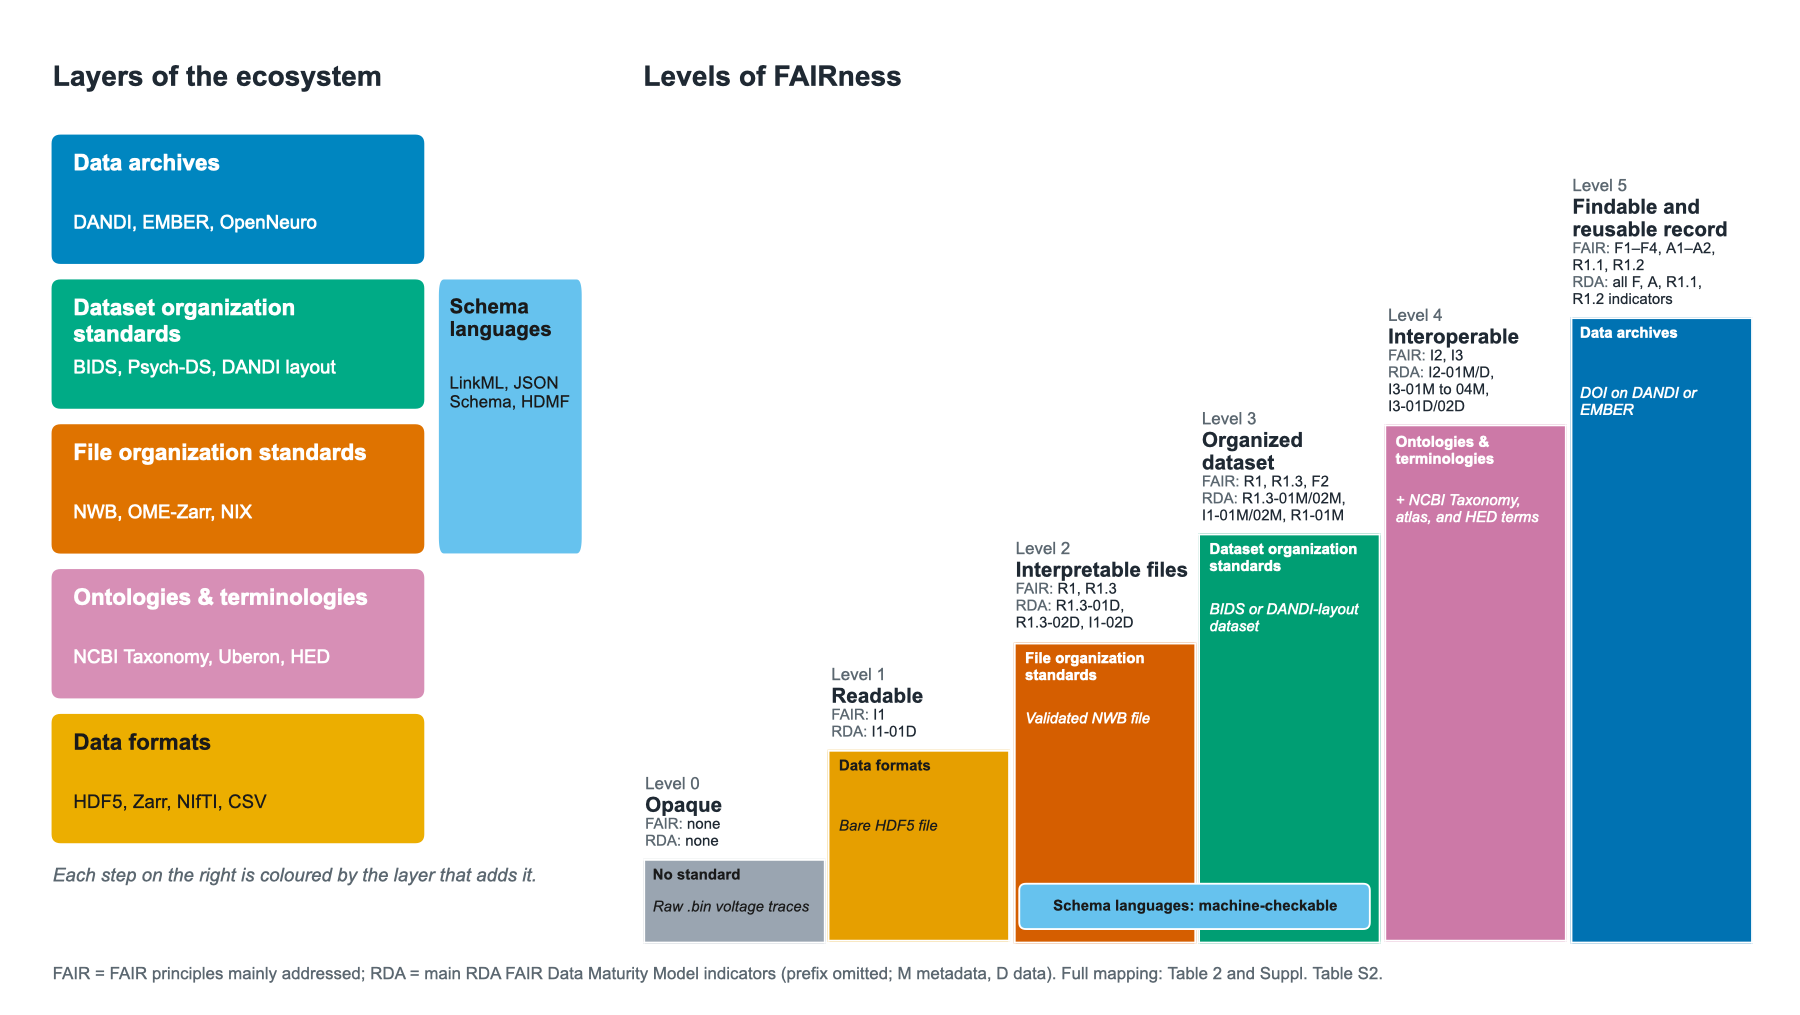
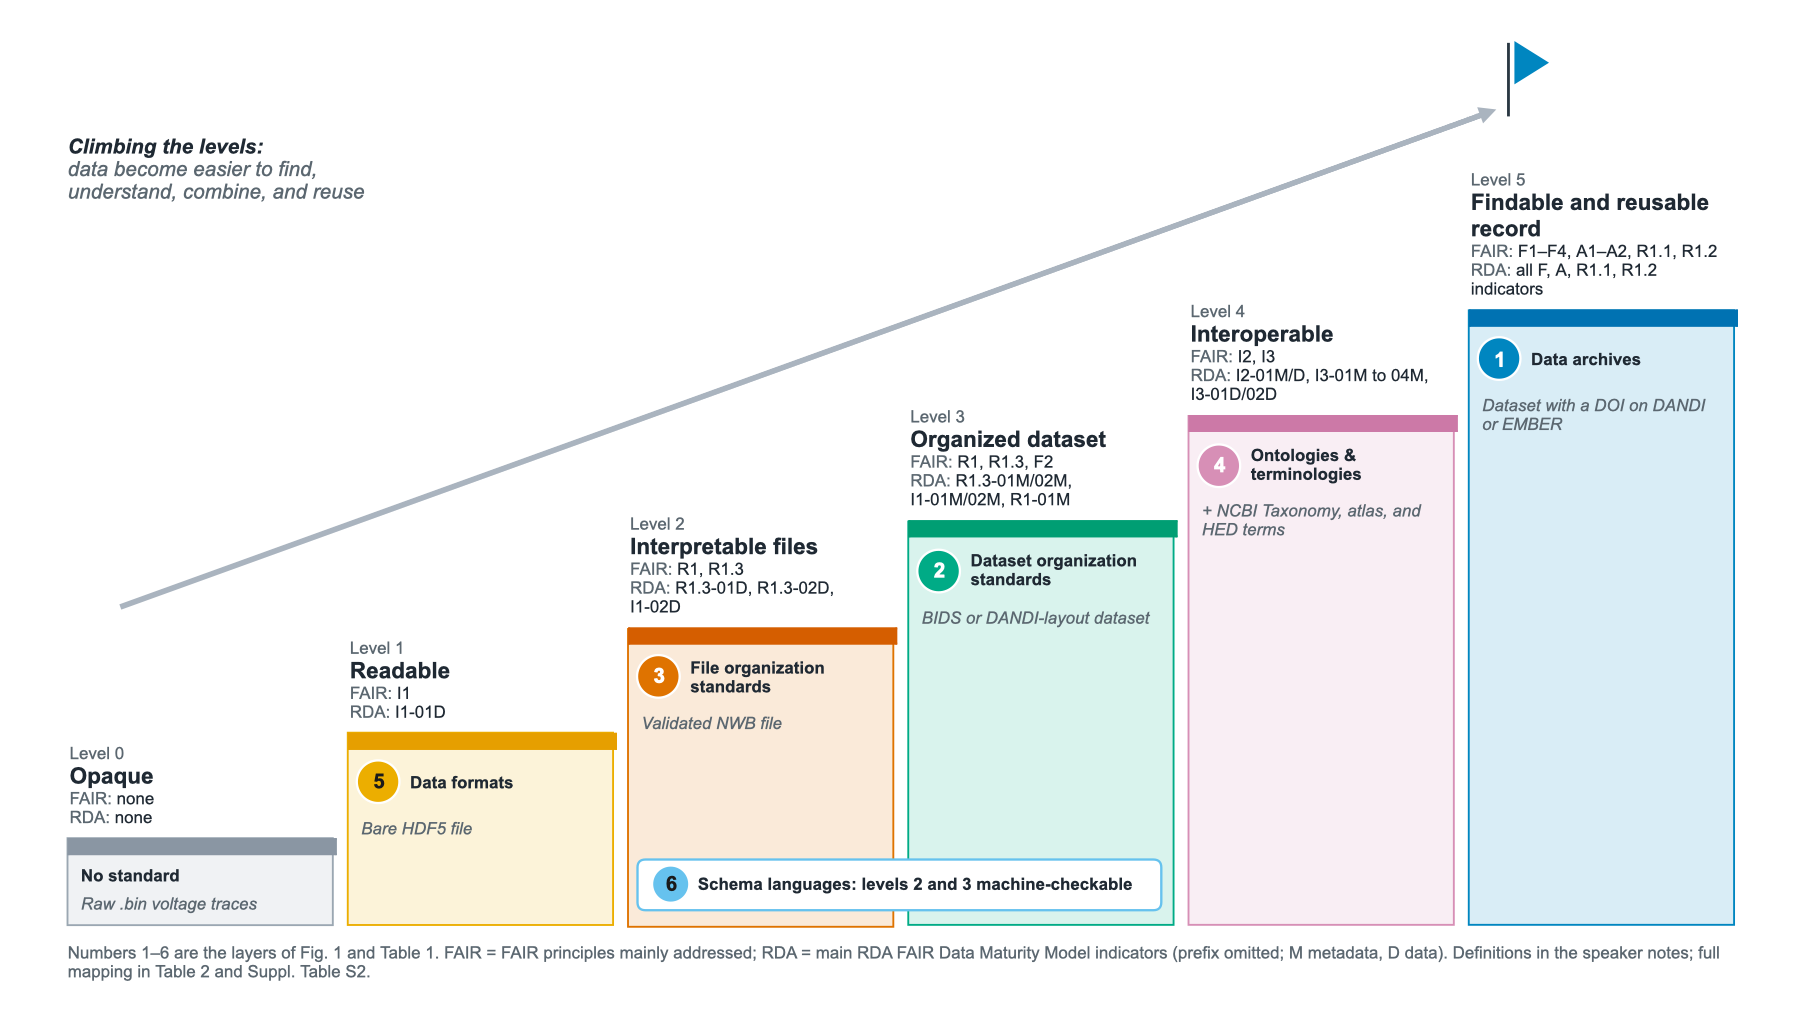
Fig. 2: staircase only, styled like Fig. 1, climbing arrow, mapping in speaker notes
- Remove the layer stack (repeated Fig. 1 and the step labels); Fig. 5 is now the only stack diagram
- Steps use the Fig. 1 style: light tint, coloured outline, numbered badges 1-6
- Rising arrow to a summit flag shows increasing FAIRness
- Speaker notes list the full text of each FAIR principle and all 41 RDA indicators per level
- Legend, Fig. 5 legend, READMEs, and TODO (D8, F3, F7, log) updated

diff --git a/plan/TODO.md b/plan/TODO.md
@@ -53,7 +53,7 @@ Knowledge-graph issues: `knowledge_graph/TODO.md` (summarized in section 5 below
             ARRIVE, CDEs; persistent identifiers; access protocols / APIs; provenance; policies and
             licences) in one paragraph and a note under Table 1, not as more layers. State that
             modelling standards (NeuroML, SONATA, PyNN) are out of scope.
-      - [ ] Stack geometry for Fig. 2 and Fig. 5 (Fig. 1 is no longer a layered diagram): keep six stacked
+      - [ ] Stack geometry for Fig. 5, now the only stack diagram (Figs. 1 and 2 have none): keep six stacked
             layers, or draw a four-level structural stack (archives, dataset organization, file
             organization, formats) with ontologies/terminologies and schema languages as cross-cutting
             columns.
@@ -106,17 +106,17 @@ Rebuild generated figures with `make figures`.
       No real platform name, logo, or look in the artwork. Redraw from the poster: Fig. 6b
       (`figures/fig6_bridges_future/`), Suppl. Table S1 (`figures/supplementary/tableS1_standards_comparison/`).
       Use "file organization standards" and the outcome of D8 *(designer / figure lead)*.
-- [ ] **F3** Design Fig. 2 (layer stack beside the six FAIR levels, `figures/fig2_fair_levels/`) and Fig. 5 (BBQS stack,
-      `figures/fig5_bbqs_stack/`) from the specs in `draft/12_figures_tables.md` *(designer)*.
+- [ ] **F3** Final artwork for Fig. 2 (FAIR staircase, `figures/fig2_fair_levels/`, design draft exists) and design of
+      Fig. 5 (BBQS stack, `figures/fig5_bbqs_stack/`) from the specs in `draft/12_figures_tables.md` *(designer)*.
 - [ ] **F4** Review Fig. 4 (`figures/fig4_bbqs_data/fig4_bbqs_data.pdf`): keep the species panel? show
       "exploratory behavior" (no guideline entry) as a gap? *(OR, core)*.
 - [ ] **F5** Polish Fig. 3 and Suppl. Fig. S1 (`figures/fig3_knowledge_graph/`,
       `figures/supplementary/figS1_knowledge_graph_lenient/`): label collisions, how to show shared
       infrastructure edges, colour-blind palette; after D10 and edge verification *(Claude, then OR)*.
 - [ ] **F6** Shorten legends to ≤350 words in total; sans-serif fonts, white backgrounds *(Claude)*.
-- [ ] **F7** Review the Fig. 2 design draft (`figures/fig2_fair_levels/fig2_fair_levels_design.pptx`): steps are
-      linked to layers by colour instead of connector lines (avoids crossings); confirm or ask the designer for
-      connectors *(OR)*.
+- [ ] **F7** Review the Fig. 2 design draft (`figures/fig2_fair_levels/fig2_fair_levels_design.pptx`): staircase only,
+      steps styled and numbered like Fig. 1, climbing arrow and summit flag; check the level-to-indicator mapping in
+      the speaker notes *(OR)*.
 - [ ] **F8** Suppl. Table S2 (`figures/supplementary/tableS2_rda_contributions/`): review the layer contributions
       with a FAIR expert (C6); export as a spreadsheet for the supplement *(core, Claude)*.
 
@@ -186,6 +186,7 @@ are in `knowledge_graph/TODO.md`, section 0.
 | 2026-10-09 | D7 Title | "Navigating neuroscience data standards for multimodal brain behavior quantification and synchronization" (103 characters) |
 | 2026-10-09 | D8 layer name | Layer 3 renamed "file organization standards" (parallel to "dataset organization standards"); "file" in the broad sense, single file vs. directory is a format choice; knowledge-graph taxonomy label updated (node id `data_standard` unchanged) |
 | 2026-10-09 | FAIR levels | Six levels (0–5) mapped to layers and FAIR principles; presented as an illustration of integration, not a new metric; related to 5-star Linked Open Data, Data Readiness Levels, and FAIR assessment tools |
+| 2026-10-15 | Fig. 2 | Layer stack removed (repeated Fig. 1 and the step labels); steps styled and numbered like Fig. 1; climbing arrow and summit flag; full mapping in the speaker notes. Fig. 5 is now the only stack diagram |
 | 2026-10-15 | FAIR alignment | Levels aligned with the RDA FAIR Data Maturity Model: Table 2 lists the main RDA indicators per level; Suppl. Table S2 maps all 41 indicators to the layers that contribute (not one level per indicator, which under-credited standards); F-UJI named as one implementation (tools disagree, Sun 2022). Five-star Open Data removed (open/linked data, not FAIR). Tables 2 and 3 moved to `draft/12_figures_tables.md` |
 | 2026-10-09 | D3 Knowledge graph | Main result: Section 4 and Fig. 3; lenient rule as Suppl. Fig. S1 |
 | 2026-10-09 | D6, F1 Display items | 6 figures, 3 tables, 1 supplementary figure and table; numbered in order of first citation; within journal limits |

diff --git a/draft/12_figures_tables.md b/draft/12_figures_tables.md
@@ -8,7 +8,7 @@ must total ≤350 words (F6).
 |---|---|---|---|---|
 | Fig. 1 | The ecosystem seen through a video-sharing app (single panel) | 2 | design draft (PowerPoint) | `figures/fig1_ecosystem_map/` |
 | Table 1 | Layer definitions | 2 | draft (below) | poster table |
-| Fig. 2 | The six layers as a stack, and the levels of FAIRness each enables | 3 | design draft (PowerPoint) | `figures/fig2_fair_levels/` |
+| Fig. 2 | Levels of FAIRness as a staircase, with the layer that adds each level | 3 | design draft (PowerPoint) | `figures/fig2_fair_levels/` |
 | Table 2 | Levels of FAIRness, the layers that enable them, FAIR principles and RDA indicators | 3 | draft (below) | RDA FAIR Data Maturity Model |
 | Fig. 3 | Ecosystem knowledge graph (layers × communities) | 4 | draft | `figures/fig3_knowledge_graph/` (`make fig3`) |
 | Fig. 4 | BBQS data: (a) species, (b) modalities, (c) behaviors × guideline coverage | 5, 8 | draft | `figures/fig4_bbqs_data/` (`make fig4`) |
@@ -49,14 +49,12 @@ shareable; it works because the layers fit together. The same holds for neurosci
 
 ![Fig. 2 design draft](../figures/fig2_fair_levels/fig2_fair_levels_design.png)
 
-**Each level of FAIRness requires technologies from an additional layer.** **Left**, the layers of the
-map as a stack in the order of Table 1, with schema languages beside the file and dataset organization
-standards they define. **Right**, six levels of FAIRness (Table 2) as a staircase. Each step is coloured
-by the layer that adds it and labelled with the FAIR principles and the main RDA FAIR Data Maturity Model
-indicators it addresses; an example dataset climbs the steps (raw binary file → bare HDF5 → validated NWB
-file → BIDS or DANDI-layout dataset → terms from NCBI Taxonomy, an atlas, and HED → DOI on DANDI or
-EMBER). Schema languages make levels 2 and 3 machine-checkable. Suppl. Table S2 shows all indicators by
-layer.
+**Each level of FAIRness requires technologies from an additional layer.** Six levels of FAIRness
+(Table 2) drawn as a staircase. Each step is styled and numbered like the layer in Fig. 1 that adds it, and
+labelled with the FAIR principles and main RDA FAIR Data Maturity Model indicators it addresses. An example
+dataset climbs the steps (raw binary file → bare HDF5 → validated NWB file → BIDS or DANDI-layout dataset →
+terms from NCBI Taxonomy, an atlas, and HED → DOI on DANDI or EMBER). Schema languages make levels 2 and 3
+machine-checkable. Suppl. Table S2 shows all indicators by layer.
 
 ## Table 2 — Levels of FAIRness and the layers that enable them
 
@@ -99,7 +97,7 @@ only.
 
 *Not yet drawn (spec only).*
 
-The layer stack from Fig. 2 with BBQS technologies highlighted: EMBER (archive); BIDS, Psych-DS, DANDI layout
+The six layers of the map as a stack (Table 1 order) with BBQS technologies highlighted: EMBER (archive); BIDS, Psych-DS, DANDI layout
 (dataset organization); NWB (file organization standard); HED, NCBI Taxonomy, atlases, Cell Ontology
 (terminologies); HDF5/Zarr, JSON/TSV/CSV, MP4, NIfTI (formats); HDMF, LinkML, BIDS schema (schema
 languages). Arrows show supported paths for typical BBQS data (e.g., video + pose + ephys → NWB → DANDI

diff --git a/figures/fig2_fair_levels/README.md b/figures/fig2_fair_levels/README.md
@@ -4,10 +4,9 @@
 |---|---|
 | Cited in | Section 3 |
 | Status | design draft (`fig2_fair_levels_design.pptx`, preview `fig2_fair_levels_design.png`); edit the .pptx directly; final artwork by designer |
-| Concept | Two parts side by side. Left: the six layers as a stack in Table 1 order (the paper's only general stack diagram, since Fig. 1 is the video-app illustration). Right: the six FAIR levels (Table 2) as a staircase, with connectors from each step to its layer. Fig. 5 reuses the same stack with BBQS technologies highlighted, so keep the two consistent. |
-| Design note | The stack order (archives, dataset org., file org., ontologies, formats) and the step order (formats → file org. → dataset org. → ontologies → archives) differ, so connectors will cross, mainly at level 4 (ontologies). Accept the crossings or place ontologies/terminologies and schema languages as side columns (D8, stack geometry). |
+| Concept | The six levels of FAIRness (Table 2) as a staircase. Each step is styled like the Fig. 1 callout of the layer that adds it (light tint, coloured outline, numbered badge 1–6 as in Fig. 1 and Table 1). A rising arrow ending at a summit flag shows that higher levels make data easier to find, understand, combine, and reuse. The separate layer stack was removed (2026-10-15) because it repeated Fig. 1 and the step labels; Fig. 5 is now the only stack diagram. |
 | Steps | Each step shows the level name, the FAIR principles, the main RDA FAIR Data Maturity Model indicators (Table 2), and the example dataset at that level. |
-| Draft choices | Steps are linked to layers by colour (layer palette from `../fig1_ecosystem_map/README.md`) rather than connector lines, which avoids the crossings described above; schema languages are shown as a side column and as a bracket over levels 2–3 (machine-checkable). Revisit with the designer (TODO F7). |
+| Draft choices | Colours and badges exactly as in Fig. 1 (palette in `../fig1_ecosystem_map/README.md`); schema languages (badge 6) shown as a box across levels 2–3 (machine-checkable). The speaker notes list the full text of every FAIR principle and RDA indicator per level, for checking the mapping. |
 | Source | Table 2 in `draft/12_figures_tables.md`; legend in the same file. Replaces the poster's "FAIR Data Score" graphic. |
 | Build | Not generated; the design draft .pptx is the editable source. Place the final artwork here. |
 | Legend | `draft/12_figures_tables.md` (single source for all legends) |

diff --git a/figures/README.md b/figures/README.md
@@ -11,7 +11,7 @@ be drawn or redrawn by hand should be saved here together with their editable so
 | Item | Folder | Content | Section | Status |
 |---|---|---|---|---|
 | Fig. 1 | [`fig1_ecosystem_map/`](fig1_ecosystem_map/) | The data standards ecosystem seen through a video-sharing app (single panel) | 2 | design draft (PowerPoint) |
-| Fig. 2 | [`fig2_fair_levels/`](fig2_fair_levels/) | The six layers as a stack, and the levels of FAIRness each enables | 3 | design draft (PowerPoint) |
+| Fig. 2 | [`fig2_fair_levels/`](fig2_fair_levels/) | Levels of FAIRness as a staircase, with the layer that adds each level | 3 | design draft (PowerPoint) |
 | Fig. 3 | [`fig3_knowledge_graph/`](fig3_knowledge_graph/) | Connections in the ecosystem (knowledge graph, strict community rule) | 4 | generated draft |
 | Fig. 4 | [`fig4_bbqs_data/`](fig4_bbqs_data/) | BBQS data: species, modalities, behaviors × guideline coverage | 5, 8 | generated draft |
 | Fig. 5 | [`fig5_bbqs_stack/`](fig5_bbqs_stack/) | The BBQS standards stack on the map | 6 | to design (spec only) |
